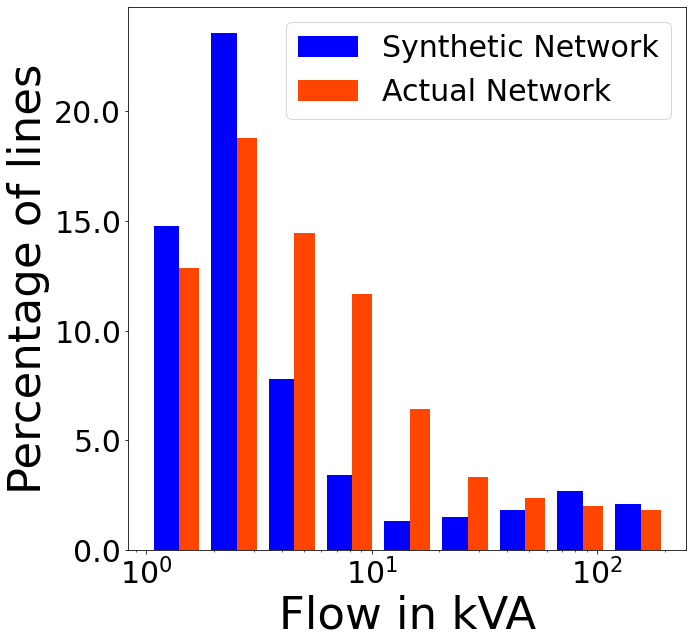
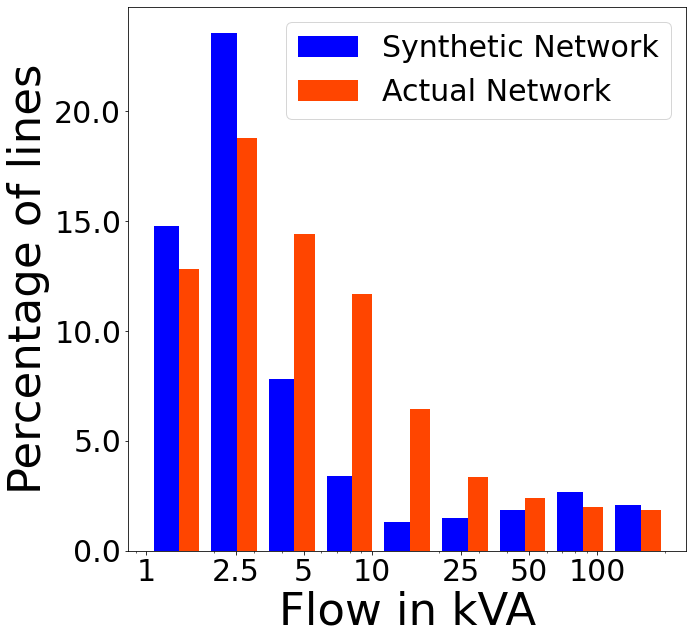
updated figs

diff --git a/compare/volt-comparison.py b/compare/volt-comparison.py
@@ -262,6 +262,8 @@ ax.yaxis.set_major_formatter(FuncFormatter(to_percent))
 ax.set_ylabel("Percentage of lines",fontsize=45)
 ax.set_xlabel("Flow in kVA",fontsize=45)
 ax.legend(fontsize=30,markerscale=2)
+ax.set_xticks([1,2.5,5,10,25,50,100], 
+              labels=['1','2.5','5','10','25','50','100'])
 ax.tick_params(axis='both', labelsize=30)
 
 
@@ -279,27 +281,7 @@ filename = "flow-comparison"
 fig.savefig("{}{}.png".format(figpath,filename),bbox_inches='tight')
 
     
-#%% Plot the network    
-# fig = plt.figure(figsize=(20,20))
-# ax = fig.add_subplot(111)
 
-# d = {'nodes':range(len(homelist)),
-#       'geometry':[Point(synth_net.nodes[n]['cord']) for n in homelist]}
-
-# df_nodes = gpd.GeoDataFrame(d, crs="EPSG:4326")
-# df_nodes.plot(ax=ax,color='red',markersize=1.0)
-
-
-# d = {'edges':range(len(df_lines)),
-#      'geometry':[df_lines['geometry'][i] for i in range(len(df_lines))]}
-# df_edges = gpd.GeoDataFrame(d, crs="EPSG:4326")
-# df_edges.plot(ax=ax,edgecolor='black',linewidth=1.0)
-
-
-# edgegeom = [synth_net.edges[e]['geometry'] for e in synth_net.edges]
-# d = {'edges':range(len(edgegeom)),'geometry':edgegeom}
-# df_edges = gpd.GeoDataFrame(d, crs="EPSG:4326")
-# df_edges.plot(ax=ax,edgecolor='blue',linewidth=1.0)
 
 
 
